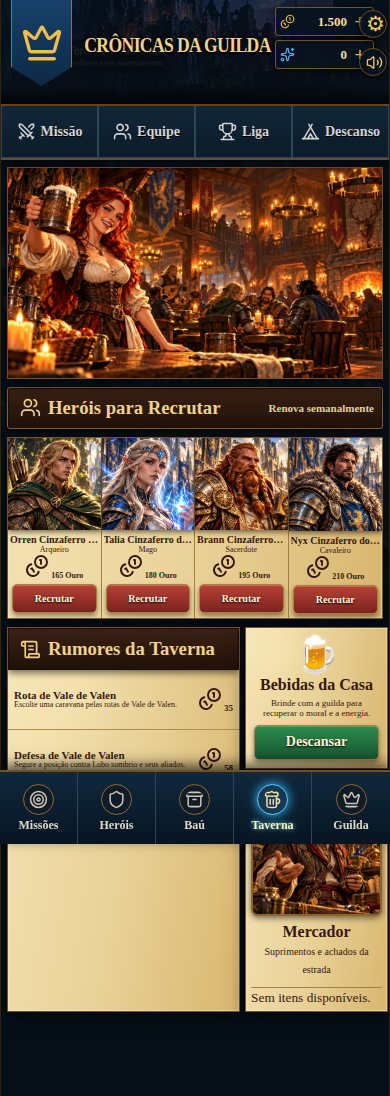
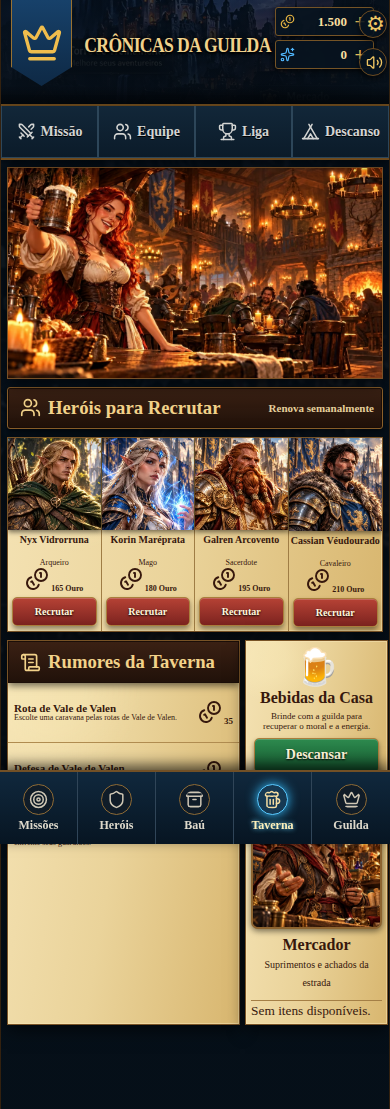
Renova nomes de heróis e guildas rivais com 250 mil opções únicas
* Cria 250 mil combinações de nomes variados e sem colisões iniciais

* Mantém nomes únicos também após 250 mil combinações

* Separa nomes do mercado e das guildas rivais com sequência única

* Evita nomes duplicados com heróis já contratados e rivais

* Atualiza nomes rivais em saves antigos sem alterar heróis já contratados

* Ajusta identificação estável de heróis rivais antigos

* Exibe nomes completos dos heróis recrutáveis em duas linhas

* Audita 250 mil nomes únicos, 99 rivais, 400 semanas e migração de save

* Executa auditoria de nomes sem repetição junto aos testes do jogo

* Atualiza testes de salvamento para versão de nomes rivais

* Corrige segunda checagem de versão no backup JSON

* Visual snapshots mobile

---------

diff --git a/lib/game.ts b/lib/game.ts
@@ -731,6 +731,25 @@ export function normalizeCampaign(previous: StoredCampaign): Campaign {
   const ids = new Set(s.rivals.map(r => r.id));
   for (let i = 0; s.rivals.length < LEAGUE_SIZE - 1; i++) if (!ids.has("rival-" + i)) { const r = createRival(i, s); s.rivals.push(r); ids.add(r.id); }
   for (const rival of s.rivals) for (const h of rival.heroes) { h.race ??= heroRace(h); if (h.talent && h.talent.rank >= 2 && !h.talent.branch) h.talent.branch = (stableNumber(h.id + ":branch") % 2 ? "b" : "a"); }
+  if (s.balanceVersion < 5) {
+    // Rebatiza apenas personagens das guildas rivais que vieram de saves antigos.
+    // Nunca altera o nome de um herói que o jogador já contratou.
+    const occupied = new Set(s.heroes.map(h => h.name));
+    let fallback = 0;
+    for (let gi = 0; gi < s.rivals.length; gi++) {
+      const rival = s.rivals[gi];
+      const index = Number(rival.id.split("-")[1]) || gi;
+      for (let hi = 0; hi < rival.heroes.length; hi++) {
+        const hero = rival.heroes[hi];
+        const sequence = Number(hero.id.split("-hero-")[1] ?? hi);
+        let name = uniqueAdventurerName(rivalNameIndex(index, sequence));
+        while (occupied.has(name)) name = uniqueAdventurerName(240000 + fallback++);
+        hero.name = name;
+        occupied.add(name);
+      }
+    }
+    s.balanceVersion = 5;
+  }
   s.nextEventDay ??= s.day + 4; s.eventSequence ??= 0;
   if (s.event === undefined) s.event = createEvent(s);
   // Saves de versões antigas podem conter eventos que prometiam mapas ou poções.
@@ -801,11 +820,25 @@ export function trainingPlan(s: Campaign, h: Hero) {
   const gap = Math.max(0, Math.max(...s.heroes.map(hero => hero.level)) - h.level);
   return { cost: 90, xp: 90 + Math.min(4, gap) * 35, energy: 15, catchup: Math.min(4, gap) * 35 };
 }
+// Reservas numéricas exclusivas: rivais ocupam os primeiros 6.400 índices,
+// e o mercado começa em 7.000. Cada índice gera nome diferente.
+const RIVAL_NAME_SLOTS = 64;
+const MARKET_NAME_OFFSET = 7000;
+function rivalNameIndex(guildIndex:number,sequence:number) {
+  return sequence < RIVAL_NAME_SLOTS
+    ? guildIndex * RIVAL_NAME_SLOTS + sequence
+    : 12000 + (sequence - RIVAL_NAME_SLOTS) * 100 + guildIndex;
+}
 export function market(s: Campaign): Hero[] {
   const week = Math.floor((s.day - 1) / 7), classes = [...CLASSIC_CLASSES];
+  // Evita conflito inclusive com heróis já contratados em salvamentos antigos.
+  const occupied = new Set([...s.heroes.map(h => h.name), ...s.rivals.flatMap(r => r.heroes.map(h => h.name))]);
   return [0, 1, 2, 3].map(i => {
     const c = classes[(week * 4 + i) % classes.length], id = "hire-" + week + "-" + i;
-    const hero = levelOneHero(id, uniqueAdventurerName(10000 + week * 4 + i), c, c === "bard" ? "Afortunado" : c === "healer" ? "Devoto" : c === "rogue" ? "Discreto" : "Aventureiro");
+    const hero = levelOneHero(id, uniqueAdventurerName(MARKET_NAME_OFFSET + week * 4 + i), c, c === "bard" ? "Afortunado" : c === "healer" ? "Devoto" : c === "rogue" ? "Discreto" : "Aventureiro");
+    let fallback = 0;
+    while (occupied.has(hero.name)) hero.name = uniqueAdventurerName(250000 + (week * 4 + i) * 16 + fallback++);
+    occupied.add(hero.name);
     const targetLevel = Math.min(MAX_HERO_LEVEL, 1 + Math.floor((s.day - 1) / 14));
     while (hero.level < targetLevel) gainXp(hero, threshold(hero));
     hero.salary = 8 + Math.floor(hero.level * 2.5); hero.value = 120 + hero.level * 45 + i * 15;
@@ -826,7 +859,7 @@ function developRival(h: RivalHero, index: number) {
 }
 function rivalAdventurer(guild: Pick<RivalGuild, "id" | "strength">, sequence: number, season: number, rookie = false): RivalHero {
   const index = Number(guild.id.split("-")[1]) || 0, c = CLASSIC_CLASSES[(index * 3 + sequence) % CLASSIC_CLASSES.length];
-  const base = levelOneHero(guild.id + "-hero-" + sequence, uniqueAdventurerName(index * 32 + sequence + 200), c, c === "bard" ? "Sortudo" : "Rival");
+  const base = levelOneHero(guild.id + "-hero-" + sequence, uniqueAdventurerName(rivalNameIndex(index,sequence)), c, c === "bard" ? "Sortudo" : "Rival");
   const targetLevel = Math.min(MAX_HERO_LEVEL, rookie ? 1 : 1 + Math.floor((season - 1) / 2) + Math.floor(guild.strength / 2));
   while (base.level < targetLevel) gainXp(base, threshold(base));
   const h: RivalHero = { ...base, salary: 8 + targetLevel * 3, value: 120 + targetLevel * 55, loyalty: 35 + stableNumber(guild.id + ":" + sequence) % 56 };

diff --git a/lib/v130-content.ts b/lib/v130-content.ts
@@ -61,11 +61,26 @@ const epithets = [
   "de Valen","de Brumavale","de Ashen","do Norte","da Costa","do Deserto","dos Picos","do Bosque","da Fronteira","do Ocaso","da Aurora","das Ruínas",
   "do Abismo","da Torre","do Vale","das Marés","da Lua","do Sol","das Cinzas","do Horizonte","da Coroa","da Estrada","do Pântano","do Império"
 ];
-export function uniqueAdventurerName(index: number) {
-  const a = Math.abs(index) % firstNames.length;
-  const b = Math.floor(Math.abs(index) / firstNames.length) % familyNames.length;
-  const c = Math.floor(Math.abs(index) / (firstNames.length * familyNames.length)) % epithets.length;
-  return firstNames[a] + " " + familyNames[b] + " " + epithets[c];
+// 100 prenomes e 100 sobrenomes: 10.000 combinações curtas sem repetição.
+// Outras 240.000 combinações com origem permitem progressão de longas campanhas.
+const extraFirstNames = ["Aelric","Veylin","Ormira","Kaelen","Thalira","Brynden","Zephira","Nivara","Odran","Sylwen","Caldor","Belmira","Teryn","Ivaran","Elowen","Vorian","Myrith","Daelin","Arvessa","Sarn","Keldric","Mavira","Zevran","Ferys","Lorwyn","Braska","Avelis","Theron","Ylvara","Galren","Isolde","Roneth","Vaelor","Druska","Mireth","Zalric"];
+const extraFamilyNames = ["Alvorduna","Brasalume","Corvoprata","Pedrassol","Ventobravo","Cinzardente","Sombravéu","Auroraforte","Runaespinho","Luaferro","Geloespora","Brumaclara","Estelarubro","Falcãoalto","Lobodourado","Tempestanoite","Ferromaré","Soldebruma","Chamaeterna","Raizdeouro","Valeespinho","Vidrorruna","Pedraestrela","Espadacinza","Trovejanoite","Florabismo","Véunegro","Corvossol","Ecoferro","Noitelume","Riosombrio","Arcovento","Brasalva","Serraflor","Falcatrua","Coraçãoferro","Sangueprata","Nevoeiroalto","Coroaquebrada","Pódeestrela","Trilhassol","Montebruma","Ruinalva","Alvorpedra","Marluar","Soldeferro","Ventoaurora","Fogoazul","Espinhofrio","Luarverde","Almaferro","Brumaviva"];
+const nameFirstPool = [...firstNames,...extraFirstNames];
+const nameFamilyPool = [...familyNames,...extraFamilyNames];
+export const ADVENTURER_SHORT_NAME_COUNT = nameFirstPool.length * nameFamilyPool.length;
+export const ADVENTURER_NAME_CAPACITY = ADVENTURER_SHORT_NAME_COUNT * (epithets.length + 1);
+
+export function uniqueAdventurerName(index:number):string {
+  if (!Number.isSafeInteger(index) || index < 0) throw new RangeError("Índice de aventureiro inválido.");
+  const tier = Math.floor(index / ADVENTURER_SHORT_NAME_COUNT);
+  // Permutação bijetiva: índices diferentes produzem pares diferentes.
+  // O primo 65537 é coprimo com 10.000, evitando famílias consecutivas iguais.
+  const pair = ((index % ADVENTURER_SHORT_NAME_COUNT) * 65537 + 7919) % ADVENTURER_SHORT_NAME_COUNT;
+  const first = nameFirstPool[pair % nameFirstPool.length];
+  const family = nameFamilyPool[Math.floor(pair / nameFirstPool.length)];
+  const origin = tier > 0 ? " " + epithets[(tier - 1) % epithets.length] : "";
+  const cycle = tier > 0 ? Math.floor((tier - 1) / epithets.length) : 0;
+  return first + " " + family + origin + (cycle ? " " + (cycle + 1) : "");
 }
 
 export const LEVEL_ABILITIES: Record<string, Array<{ level: number; id: string; name: string; description: string; target: string; cooldown: number; effect: string }>> = {

diff --git a/scripts/test-unique-names.ts b/scripts/test-unique-names.ts
@@ -1,0 +1,64 @@
+import assert from "node:assert/strict";
+import fs from "node:fs";
+import { ADVENTURER_SHORT_NAME_COUNT, ADVENTURER_NAME_CAPACITY, uniqueAdventurerName } from "../lib/v130-content.ts";
+import { market, newCampaign, normalizeCampaign } from "../lib/game.ts";
+
+assert.equal(ADVENTURER_SHORT_NAME_COUNT,10_000);
+assert.equal(ADVENTURER_NAME_CAPACITY,250_000);
+const names = new Set<string>();
+for(let i=0;i<ADVENTURER_NAME_CAPACITY;i++){
+  const name=uniqueAdventurerName(i);
+  assert.ok(!names.has(name),"Nome repetido no catálogo: "+name+" (índice "+i+")");
+  names.add(name);
+}
+assert.equal(names.size,250_000);
+assert.notEqual(uniqueAdventurerName(0),uniqueAdventurerName(1));
+assert.notEqual(uniqueAdventurerName(64),uniqueAdventurerName(65));
+
+const current = newCampaign(20261009);
+const guildNames = current.rivals.flatMap(g=>g.heroes.map(h=>h.name));
+assert.equal(current.rivals.length,99);
+assert.equal(new Set(guildNames).size,guildNames.length);
+assert.ok(guildNames.every(n=>n.split(" ").length===2),"Os nomes rivais iniciais devem caber nos cartões");
+const worldwide=new Set([...current.heroes.map(h=>h.name),...guildNames]);
+for(let week=0;week<400;week++){
+  const campaign=structuredClone(current);
+  campaign.day=week*7+1;
+  const recruits=market(campaign);
+  assert.equal(recruits.length,4);
+  const familyOfFour=new Set(recruits.map(h=>h.name.split(" ").slice(1).join(" ")));
+  assert.equal(familyOfFour.size,4,"Quatro recrutas da mesma semana compartilham sobrenome");
+  for(const h of recruits){
+    assert.ok(!worldwide.has(h.name),"Nome repetido entre rivais e mercado: "+h.name);
+    worldwide.add(h.name);
+  }
+}
+assert.ok(worldwide.size>2000);
+
+// Migração do save: troca os nomes dos rivais, mas preserva exatamente
+// os nomes dos heróis do jogador, inclusive um nome adquirido anteriormente.
+const legacy=structuredClone(current);
+legacy.balanceVersion=4;
+legacy.heroes[0].name="Aric Valen Personalizado";
+for(const rival of legacy.rivals)for(const hero of rival.heroes)hero.name="Cinzaferro";
+const migrated=normalizeCampaign(legacy);
+assert.equal(migrated.heroes[0].name,"Aric Valen Personalizado");
+assert.equal(migrated.balanceVersion,5);
+const renamed=migrated.rivals.flatMap(g=>g.heroes.map(h=>h.name));
+assert.equal(new Set(renamed).size,renamed.length);
+assert.ok(!renamed.includes("Cinzaferro"));
+const again=normalizeCampaign(migrated);
+assert.deepEqual(again.rivals.flatMap(g=>g.heroes.map(h=>h.name)),renamed,"Nomes rivais mudaram após recarregar o save");
+
+// Mesmo se um nome antigo do jogador coincidir com o próximo recruta,
+// o mercado oferece um nome alternativo sem prejudicar o personagem salvo.
+const collision=structuredClone(current);
+collision.heroes[0].name=market(collision)[0].name;
+const other=market(collision);
+assert.ok(other.every(h=>h.name!==collision.heroes[0].name));
+assert.equal(new Set(other.map(h=>h.name)).size,other.length);
+
+const css=fs.readFileSync("app/ui.css","utf8");
+assert.ok(css.includes(".recruit-grid h3{margin:4px 2px 0;min-height:24px;"));
+assert.ok(css.includes("white-space:normal;overflow-wrap:anywhere"));
+console.log("250.000 nomes únicos, mercado, 99 guildas rivais e salvamentos: OK.");

diff --git a/scripts/test-v130-world.ts b/scripts/test-v130-world.ts
@@ -235,7 +235,7 @@ console.log("v1.3.0: iniciando bateria ampla...");
   old.heroes[0].class = "monk";
   old.heroes[0].level = 9; old.heroes[0].attack = 40; old.heroes[0].defense = 35; old.heroes[0].magic = 18;
   const migrated = normalizeCampaign(JSON.parse(JSON.stringify(old)));
-  ok(migrated.balanceVersion === 4, "Save antigo não recebeu a versão canônica de dados.");
+  ok(migrated.balanceVersion === 5, "Save antigo não recebeu a versão canônica de dados.");
   ok(migrated.heroes.map(h => h.name).join("|") === ["Aric Valen","Lyria Cael","Thorgar Pedraferro","Kaelith Sombria","Eldrin Silvestre","Rhokar Brasavil"].join("|"), "Save antigo não foi migrado para o elenco canônico.");
   ok(migrated.heroes[0].level === 1 && migrated.heroes[0].attack <= 8, "Save antigo não foi rebalanceado para nível 1/status baixo.");
 }
@@ -244,7 +244,7 @@ console.log("v1.3.0: iniciando bateria ampla...");
 {
   let s=prep(newCampaign(1016)); s.hq.forge=2; s.academy.trainees=[s.heroes[0].id]; s.region=4; s.activeRegion=3;
   const restored=normalizeCampaign(JSON.parse(JSON.stringify(s)));
-  ok(restored.hq.forge===2 && restored.activeRegion===3 && restored.balanceVersion===4, "Backup JSON perdeu dados v1.3.");
+  ok(restored.hq.forge===2 && restored.activeRegion===3 && restored.balanceVersion===5, "Backup JSON perdeu dados v1.3.");
 }
 
 // 16) Stress: várias campanhas, dezenas de dias, batalhas, descanso e mercado.

diff --git a/app/ui.css b/app/ui.css
@@ -834,7 +834,7 @@ img{display:block;max-width:100%}
   width:100%;height:auto;aspect-ratio:1/1;
   border-radius:0;border:0;
 }
-.recruit-grid h3{margin:4px 2px 0;font-size:10px;white-space:nowrap;overflow:hidden;text-overflow:ellipsis}
+.recruit-grid h3{margin:4px 2px 0;min-height:24px;font-size:10px;line-height:1.12;white-space:normal;overflow-wrap:anywhere}
 .recruit-grid article>span{font-size:8px}
 .recruit-grid article>small{font-size:8px;font-weight:700}
 .recruit-grid .action-button{margin:4px;min-height:29px;padding:2px;font-size:10px}
